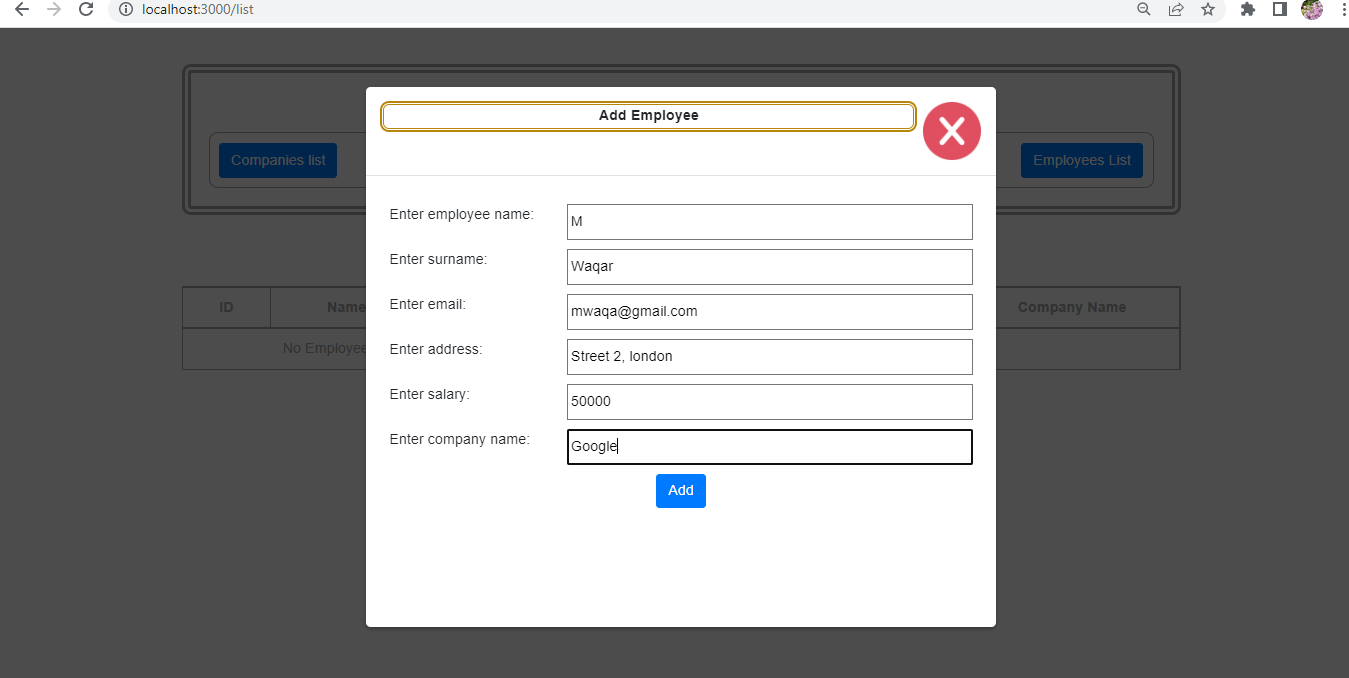
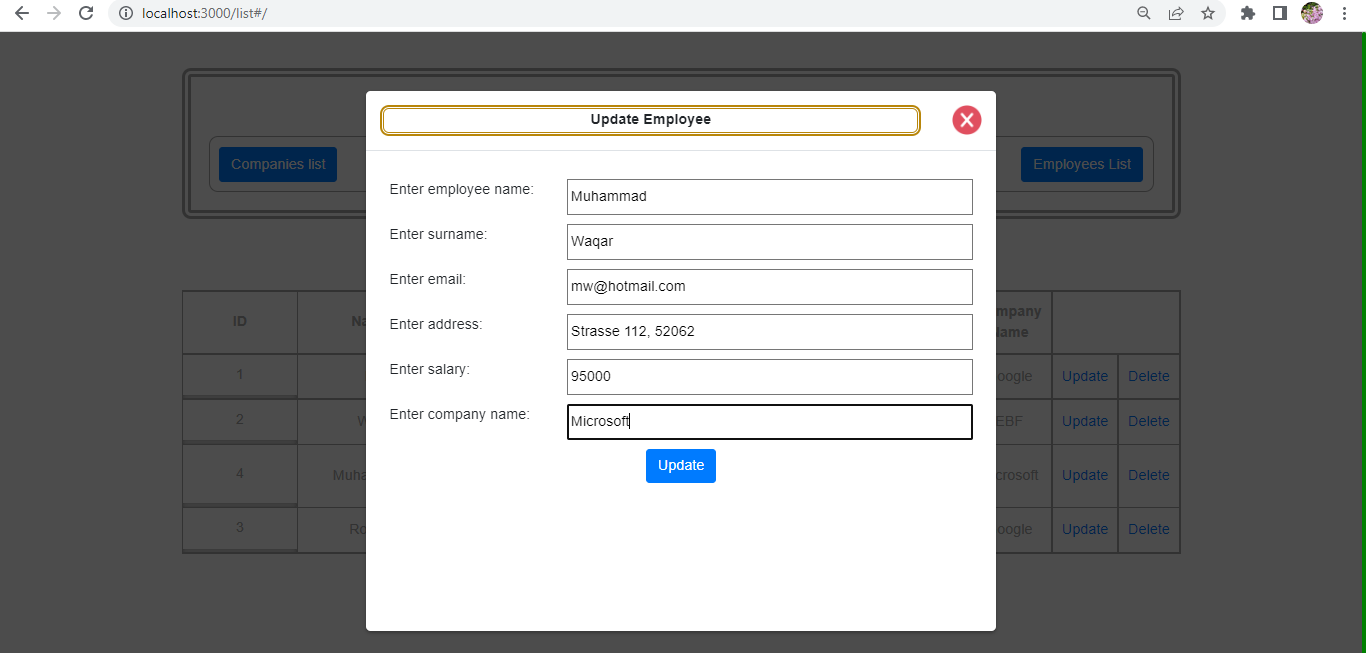
modal styling

diff --git a/src/components/EmployeesList.js b/src/components/EmployeesList.js
@@ -153,7 +153,7 @@ const EmployeesList = (props) => {
             <div className='modal-inner'>
               <div className='modal-header'>
                 <p className='modal-title'>Add Employee</p>
-                  <img className='modal-close' src={closeIcon} onClick={()=>closeModal()}/>
+                  <img className='modal-close' style={{width:"5%"}} src={closeIcon} onClick={()=>closeModal()}/>
               </div>
               <div className='modal-body'>
                 <div style={{display:'flex', width:'100%', margin:'5px'}}>
@@ -191,7 +191,7 @@ const EmployeesList = (props) => {
               <div className='modal-inner'>
                 <div className='modal-header'>
                   <p className='modal-title'>Update Employee</p>
-                    <img className='modal-close' src={closeIcon} onClick={()=>closeModal()}/>
+                    <img className='modal-close' style={{width:"5%"}} src={closeIcon} onClick={()=>closeModal()}/>
                 </div>
                 <div className='modal-body'>
                   <div style={{display:'flex', width:'100%', margin:'5px'}}>
